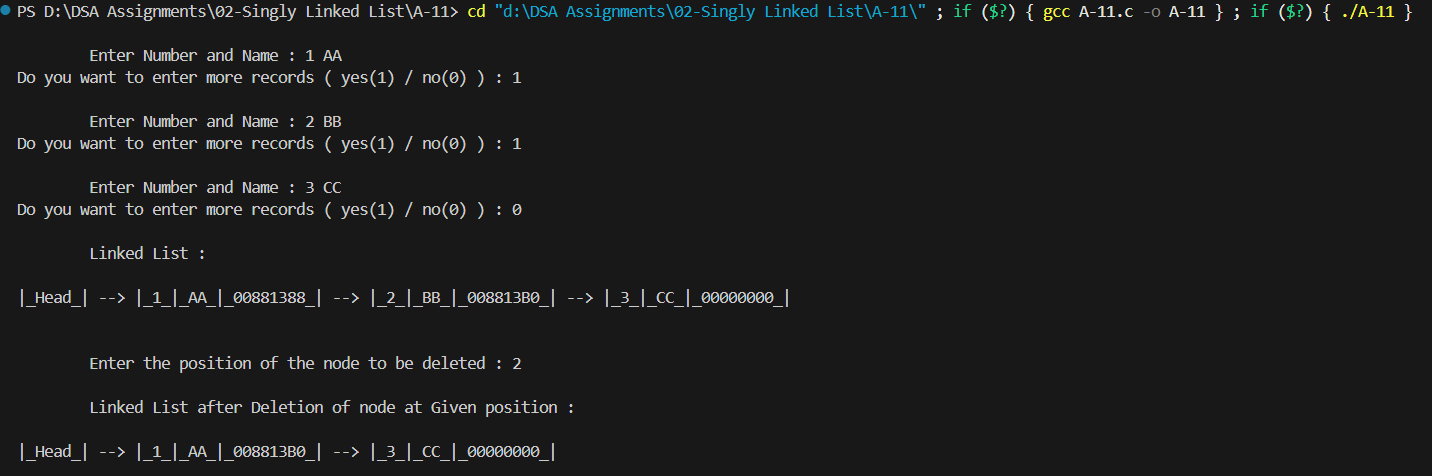
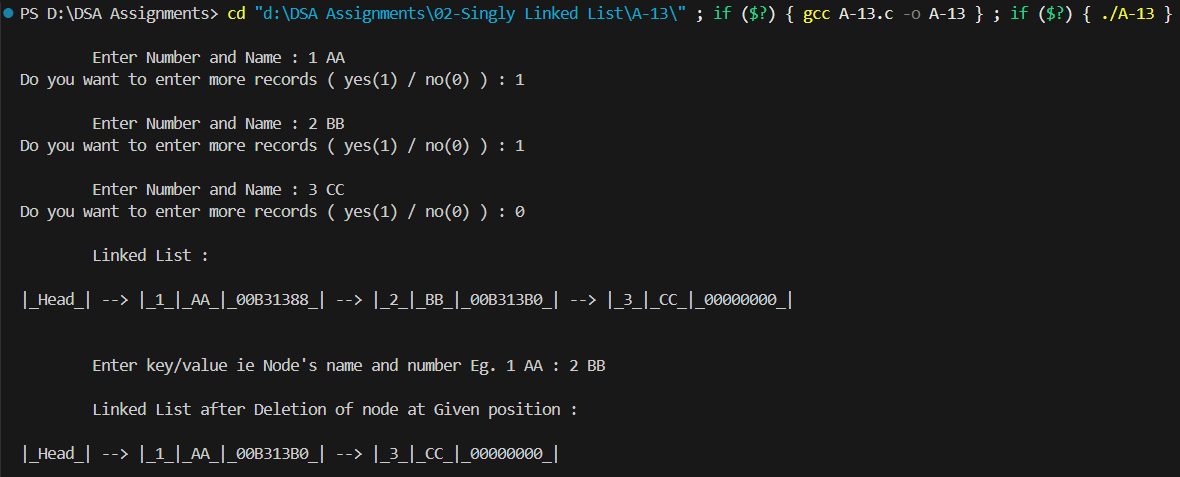
Singly Linked List Assignment No. 13

diff --git a/02-Singly Linked List/A-13/A-13.c b/02-Singly Linked List/A-13/A-13.c
@@ -3,11 +3,13 @@
 */
 
 /* 
-    Input -> |_Head_| --> |_1_|_AA_|_00B71388_| --> |_2_|_BB_|_00B713B0_| --> |_3_|_CC_|_00000000_|                   
+    Input -> |_Head_| --> |_1_|_AA_|_00B31388_| --> |_2_|_BB_|_00B313B0_| --> |_3_|_CC_|_00000000_| 
+    key/value = 2 BB              
 */
 
 #include<stdio.h>
 #include<stdlib.h>
+#include<string.h>
 
 typedef struct SLLNode
 {
@@ -19,7 +21,7 @@ typedef struct SLLNode
 SLLNode* createSLL();
 void displaySLL(SLLNode*);
 void freeSLL(SLLNode*);
-SLLNode* positionNodeDeletion(SLLNode*);
+SLLNode* keyNodeDeletion(SLLNode*);
 
 int main() {
     
@@ -30,7 +32,7 @@ int main() {
     printf("\n\tLinked List : ");
     displaySLL(head);
 
-    head = positionNodeDeletion(head);
+    head = keyNodeDeletion(head);
 
     if( head != NULL) {
     printf("\n\tLinked List after Deletion of node at Given position : ");
@@ -74,36 +76,35 @@ SLLNode* createSLL() {
 
 }
 
-SLLNode* positionNodeDeletion(SLLNode * head) {
+SLLNode* keyNodeDeletion(SLLNode * head) {
 
-    SLLNode *del = NULL,*temp = NULL;
+    SLLNode *del = NULL,*temp = NULL, *prev;
+    temp = malloc(sizeof(SLLNode));
     del = head;
 
     int pos;
-    printf("\n\tEnter key / value : ");
-    scanf("%d", &pos);
-
-    if (pos == 1)
-    {
+    printf("\n\tEnter key/value ie Node's name and number Eg. 1 AA : ");
+    scanf("%d %s", &(temp -> number), temp -> name);
+    
+    if (temp -> number == del -> number && (!strcmp(temp -> name, del -> name))) {
         head = del -> next;
         free(del);
+        free(temp);
+        del = NULL, temp = NULL;
     } else {
-        for (int i = 1 ; i < pos-1 && del -> next != NULL ; del = del -> next,i++);
+        for ( ; temp -> number != del -> number && strcmp(temp -> name, del -> name) && del -> next != NULL ; prev = del, del = del -> next);
 
-        if (del -> next != NULL) {
-            if (del -> next -> next == NULL) {
-                del -> next = NULL;
-                free(del -> next);
-            } else {
-            temp = del -> next;
-            del -> next = del -> next -> next;
+        if (prev -> next -> next != NULL ) {
+            temp = prev -> next;
+            prev -> next = prev -> next -> next;
             free(temp);
-            }
-        } else {
-            printf("\n\tInvalid Position Entered!\n\n");
             free(del);
-            del = NULL;
-            return del;
+            del = NULL,temp = NULL;
+        } else {
+            prev -> next = NULL;
+            free(temp);
+            free(del);
+            del = NULL, temp = NULL;
         }
     }
 
@@ -135,43 +136,43 @@ void freeSLL(SLLNode *f) {
             Do you want to enter more records ( yes(1) / no(0) ) : 1
 
                     Enter Number and Name : 2 BB
-            Do you want to enter more records ( yes(1) / no(0) ) : 1
+            Do you want to enter more records ( yes(1) / no(0) ) : 1 
 
                     Enter Number and Name : 3 CC
             Do you want to enter more records ( yes(1) / no(0) ) : 0
 
-                    Linked List :
+                    Linked List : 
 
-            |_Head_| --> |_1_|_AA_|_00B71388_| --> |_2_|_BB_|_00B713B0_| --> |_3_|_CC_|_00000000_|
+            |_Head_| --> |_1_|_AA_|_00B31388_| --> |_2_|_BB_|_00B313B0_| --> |_3_|_CC_|_00000000_| 
 
 
-                    Enter key / value : 2
+                    Enter key/value ie Node's name and number Eg. 1 AA : 2 BB
 
-                    Linked List after Deletion of node at Given position :
+                    Linked List after Deletion of node at Given position : 
 
-            |_Head_| --> |_1_|_AA_|_00B713B0_| --> |_3_|_CC_|_00000000_|    
+            |_Head_| --> |_1_|_AA_|_00B313B0_| --> |_3_|_CC_|_00000000_|
 */
 
 /*
-    Key = 1 (Head Position) :
+    Key/value = 1 AA (Head Position) :
 
         Linked List : 
 
-    |_Head_| --> |_2_|_BB_|_00B713B0_| --> |_3_|_CC_|_00000000_|  
+    |_Head_| --> |_2_|_BB_|_00B313B0_| --> |_3_|_CC_|_00000000_|  
 */
 
 /*
-    Key = 2 (Middle Position) :
+    Key/value = 2 BB (Middle Position) :
 
         Linked List : 
 
-    |_Head_| --> |_1_|_AA_|_00B71388_| --> |_3_|_CC_|_00000000_| 
+    |_Head_| --> |_1_|_AA_|_00B313B0_| --> |_3_|_CC_|_00000000_| 
 */
 
 /*
-    Key = 3 (End Position) :
+    Key/value = 3 CC (End Position) :
 
         Linked List : 
 
-    |_Head_| --> |_1_|_AA_|_00B71388_| --> |_2_|_BB_|_00000000_|  
+    |_Head_| --> |_1_|_AA_|_00B31388_| --> |_2_|_BB_|_00000000_|  
 */
